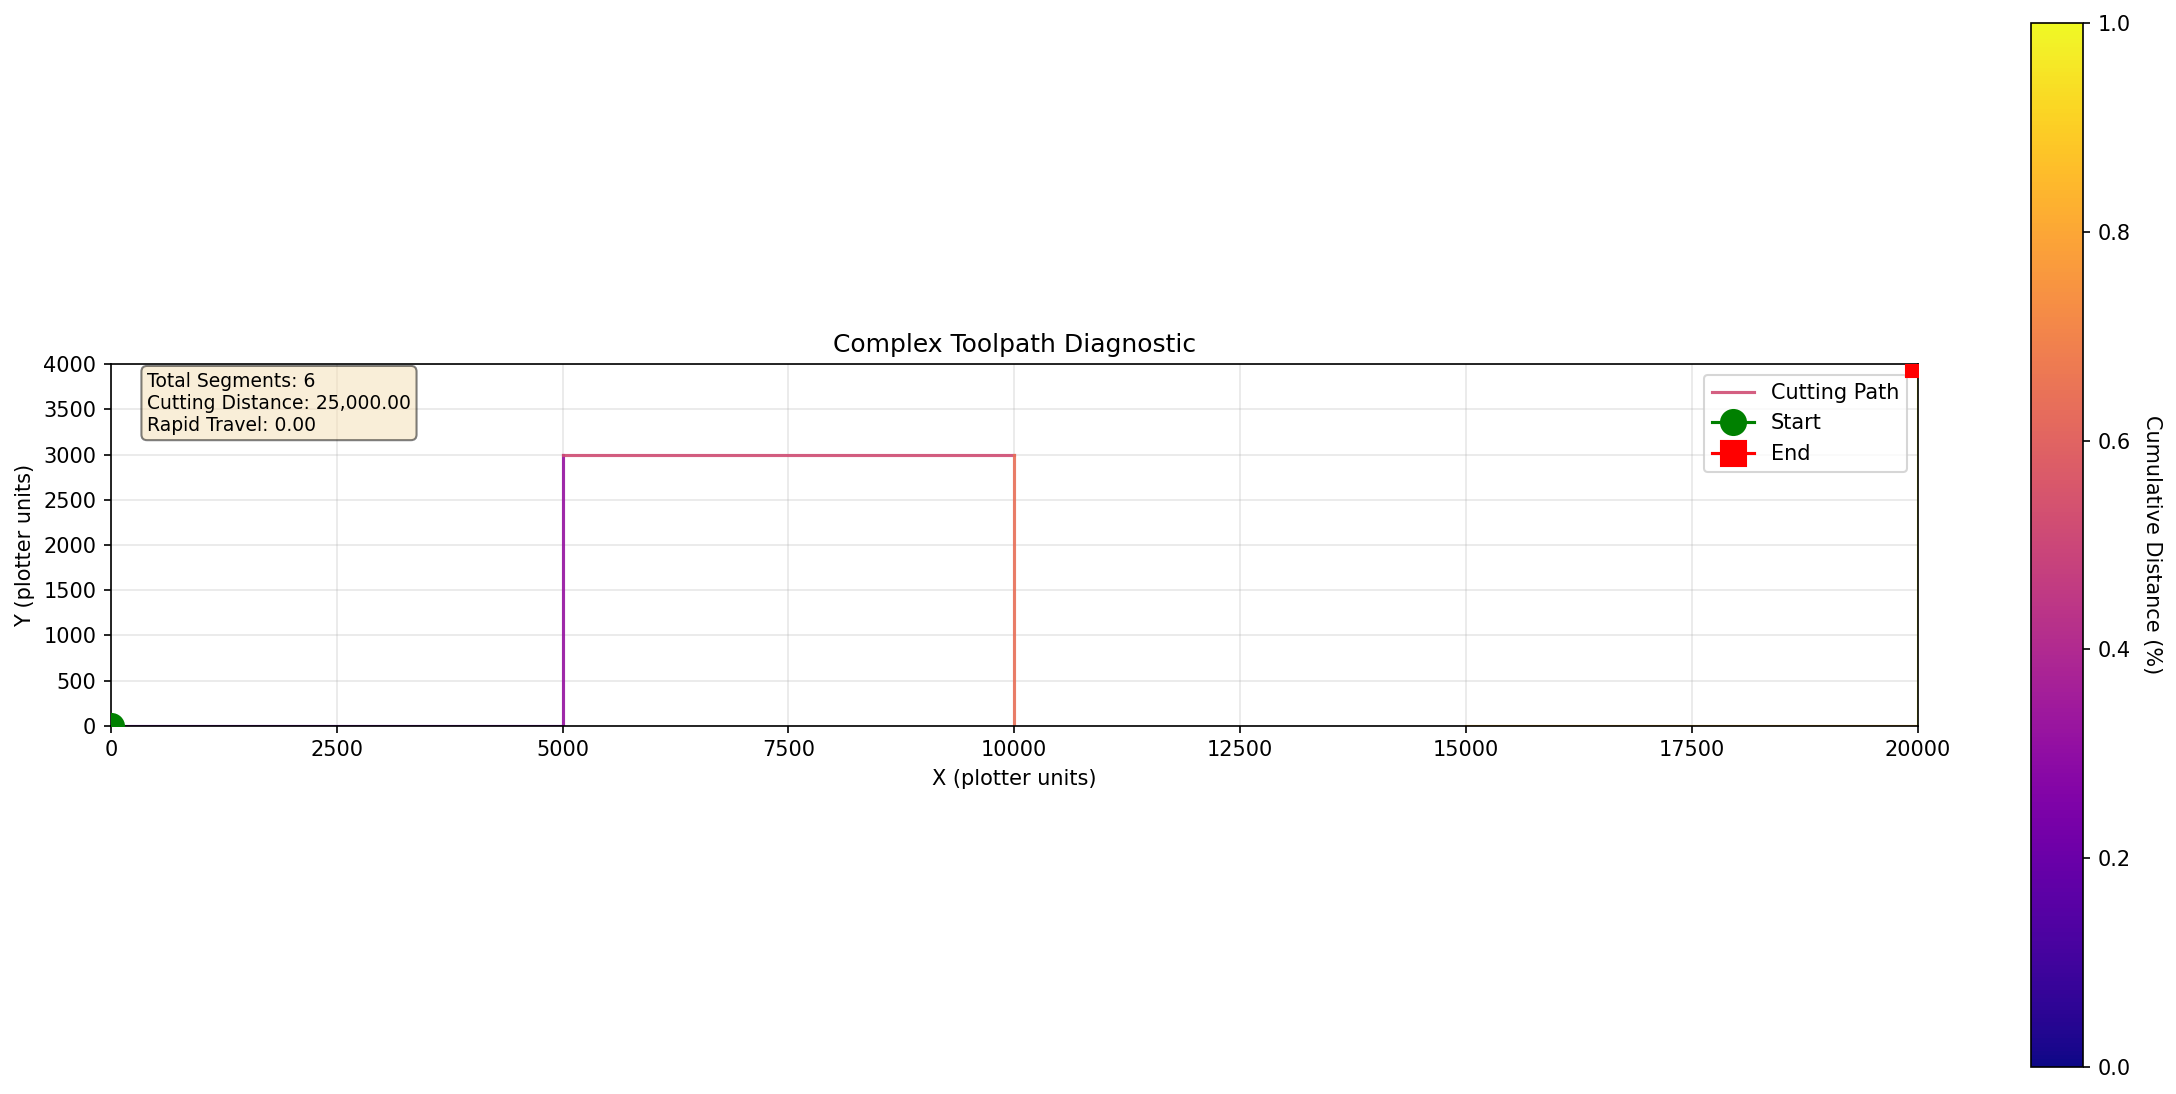
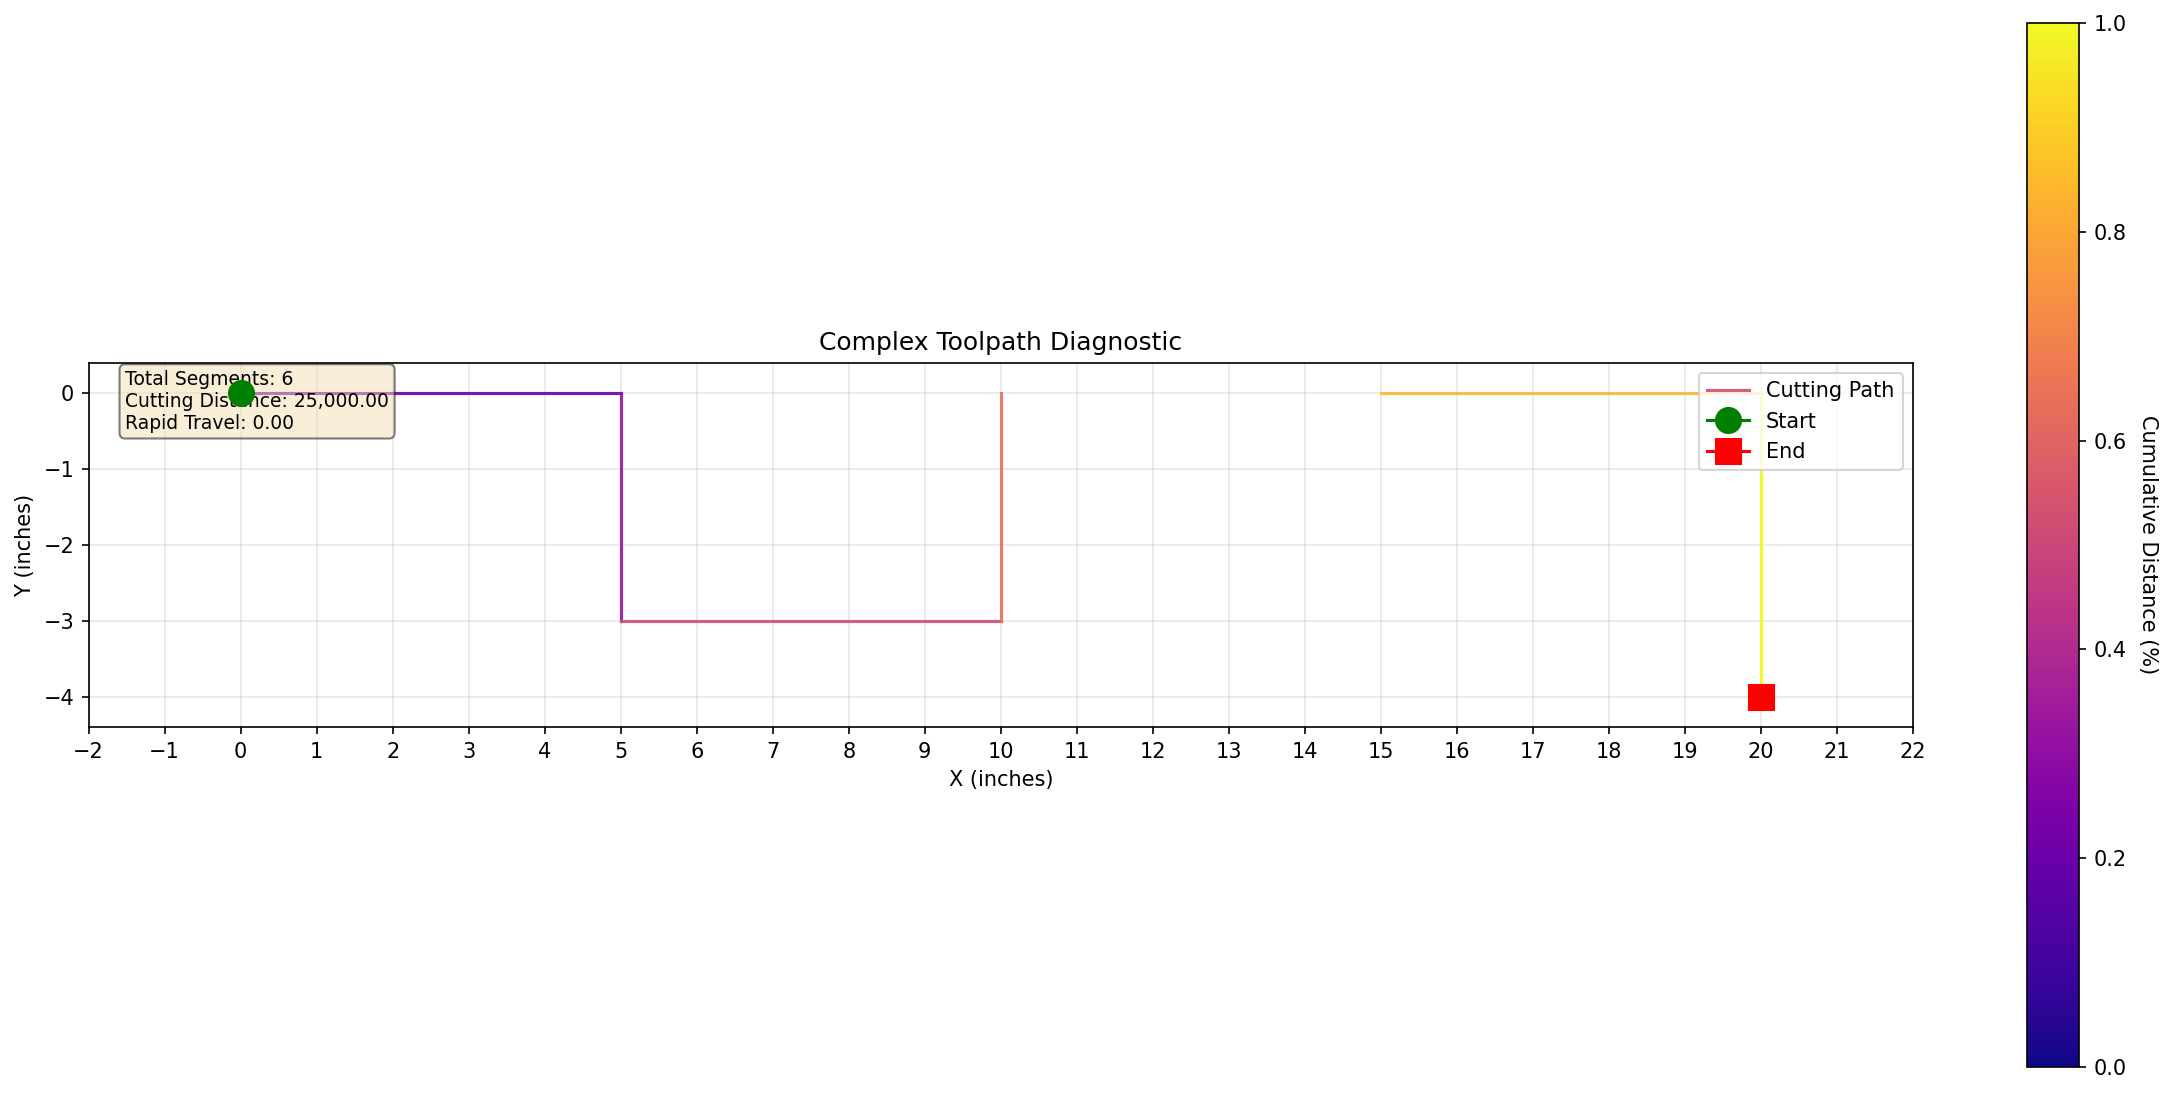
plot tool-up "rapid travel" paths

diff --git a/plt_optimizer/core/parser.py b/plt_optimizer/core/parser.py
@@ -205,7 +205,10 @@ class PLTParser:
                         )
 
                         if pen_state == PenState.UP or current_path is None:
-                            current_path = StrokePath(segments=(segment,))
+                            current_path = StrokePath(
+                                pen_up_position=last_position,
+                                segments=(segment,),
+                            )
                             doc.stroke_paths.append(current_path)
                         else:
                             new_segments = current_path.segments + (segment,)
@@ -225,7 +228,10 @@ class PLTParser:
                     )
                     if arc_segment is not None:
                         if pen_state == PenState.UP or current_path is None:
-                            current_path = StrokePath(segments=(arc_segment,))
+                            current_path = StrokePath(
+                                pen_up_position=last_position,
+                                segments=(arc_segment,),
+                            )
                             doc.stroke_paths.append(current_path)
                         elif pen_state == PenState.DOWN:
                             new_segments = current_path.segments + (arc_segment,)
@@ -244,7 +250,10 @@ class PLTParser:
                         )
                         if arc_segment is not None:
                             if pen_state == PenState.UP or current_path is None:
-                                current_path = StrokePath(segments=(arc_segment,))
+                                current_path = StrokePath(
+                                    pen_up_position=last_position,
+                                    segments=(arc_segment,),
+                                )
                                 doc.stroke_paths.append(current_path)
                             elif pen_state == PenState.DOWN:
                                 new_segments = current_path.segments + (arc_segment,)

diff --git a/plt_optimizer/diagnostics/plotter.py b/plt_optimizer/diagnostics/plotter.py
@@ -184,7 +184,7 @@ def plot_plt_document(
                         color="gray",
                         linewidth=0.5,
                         linestyle="dotted",
-                        alpha=1.234,
+                        alpha=0.7,
                         label="Rapid Travel (PU)" if i == 0 else "",
                     )
                 else:
@@ -195,9 +195,34 @@ def plot_plt_document(
                         color="gray",
                         linewidth=0.5,
                         linestyle="dotted",
-                        alpha=1.234,
+                        alpha=0.7,
                         label="Rapid Travel (PU)" if i == 0 else "",
                     )
+
+        # Plot tool-up (rapid) connections between strokes as dashed gray lines
+        paths = document.stroke_paths
+        for i in range(len(paths) - 1):
+            curr_path = paths[i]
+            next_path = paths[i + 1]
+
+            if not curr_path.segments or next_path.pen_up_position is None:
+                continue
+
+            last_seg = curr_path.segments[-1]
+            start_x = last_seg.end.x * PLT_UNITS_TO_INCHES
+            start_y = _flip_y(last_seg.end.y) * PLT_UNITS_TO_INCHES
+            end_x = next_path.pen_up_position.x * PLT_UNITS_TO_INCHES
+            end_y = _flip_y(next_path.pen_up_position.y) * PLT_UNITS_TO_INCHES
+
+            ax.plot(
+                [start_x, end_x],
+                [start_y, end_y],
+                color="gray",
+                linewidth=1.0,
+                linestyle="dashed",
+                alpha=0.7,
+                label="Rapid Travel (PU)" if i == 0 else "",
+            )
 
         # Then, plot all cutting moves with plasma colormap
         for i, seg in enumerate(all_segments):
